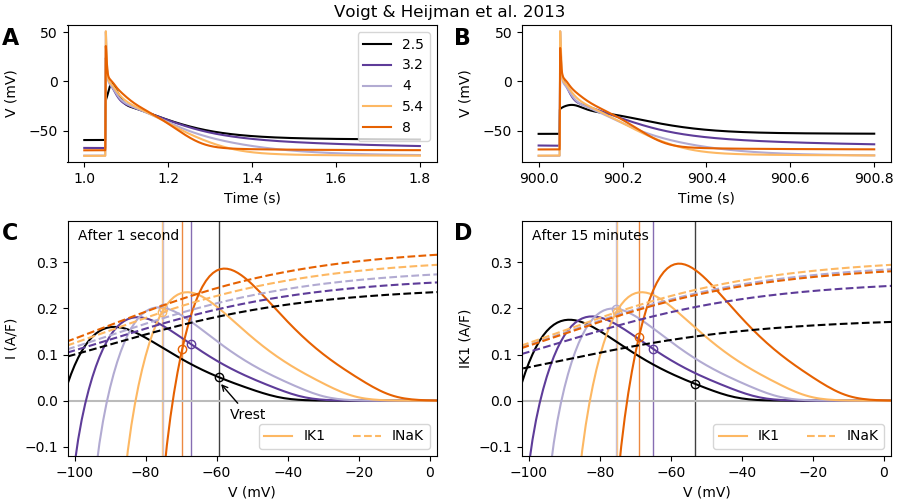
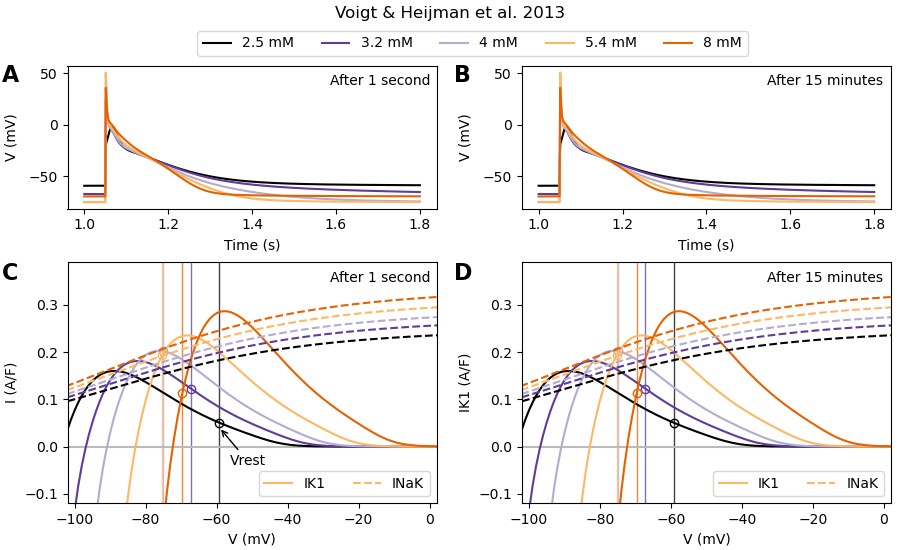
Tweaks to figure 4

diff --git a/f4.py b/f4.py
@@ -128,9 +128,9 @@ if debug:
 #
 # Create figure
 #
-fig = plt.figure(figsize=(9, 5))  # Two-column size
-fig.subplots_adjust(0.075, 0.088, 0.99, 0.95)
-grid = matplotlib.gridspec.GridSpec(5, 4, wspace=0.60, hspace=1.5)
+fig = plt.figure(figsize=(9, 5.5))  # Two-column size
+fig.subplots_adjust(0.075, 0.085, 0.99, 0.88)
+grid = matplotlib.gridspec.GridSpec(5, 4, wspace=0.60, hspace=1.2)
 
 # Add model name
 name_font = {
@@ -142,10 +142,10 @@ fig.text(0.5, 0.975, shared.fancy_name(model), name_font)
 
 # Add panel letters
 letter_font = {'weight': 'bold', 'fontsize': 16}
-fig.text(0.002, 0.91, 'A', letter_font)
-fig.text(0.505, 0.91, 'B', letter_font)
-fig.text(0.002, 0.52, 'C', letter_font)
-fig.text(0.505, 0.52, 'D', letter_font)
+fig.text(0.002, 0.85, 'A', letter_font)
+fig.text(0.505, 0.85, 'B', letter_font)
+fig.text(0.002, 0.49, 'C', letter_font)
+fig.text(0.505, 0.49, 'D', letter_font)
 #fig.text(0.255, 0.91, 'B', letter_font)
 #fig.text(0.505, 0.91, 'C', letter_font)
 #fig.text(0.755, 0.91, 'D', letter_font)
@@ -157,24 +157,9 @@ ax = fig.add_subplot(grid[0:2, 0:2])
 ax.set_xlabel('Time (s)')
 ax.set_ylabel('V (mV)')
 for d, k, c in zip(d1s, ks, cs):
-    ax.plot(d.time() * 1e-3, d[v], label=f'{k}', color=c)
-ax.legend(loc='upper right')
-
-'''
-# B: Ki over time
-ax = fig.add_subplot(grid[0:2, 1])
-ax.set_xlabel('Time (s)')
-ax.set_ylabel('[K]i')
-for d, k, c in zip(d3s, ks, cs):
-    ax.plot(d.time() * 1e-3, d[ki], color=c)
-
-# C: Nai over time
-ax = fig.add_subplot(grid[0:2, 2])
-ax.set_xlabel('Time (s)')
-ax.set_ylabel('[Na]i')
-for d, k, c in zip(d3s, ks, cs):
-    ax.plot(d.time() * 1e-3, d[nai], color=c)
-'''
+    ax.plot(d.time() * 1e-3, d[v], label=f'{k} mM', color=c)
+ax.legend(loc=(0.352, 1.07), ncol=len(ks))
+ax.text(0.710, 0.87, 'After 1 second', transform=ax.transAxes)
 
 # D: Late change in AP waveform
 ax = fig.add_subplot(grid[0:2, 2:4])
@@ -182,6 +167,7 @@ ax.set_xlabel('Time (s)')
 ax.set_ylabel('V (mV)')
 for d, k, c in zip(d2s, ks, cs):
     ax.plot(d.time() * 1e-3, d[v], color=c)
+ax.text(0.665, 0.87, 'After 15 minutes', transform=ax.transAxes)
 
 # E: IK1 and INaK IV early
 ax = fig.add_subplot(grid[2:, :2])
@@ -190,6 +176,7 @@ ax.set_ylabel('I (A/F)')
 ax.set_xlim(*vlim)
 ax.set_ylim(-0.12, 0.39)
 ax.axhline(0, color='#bbbbbb')
+
 
 for k, xy, qr, c in zip(ks, ik1_v1, vrs1, cs):
     label = 'IK1' if k == 5.4 else None
@@ -205,7 +192,7 @@ ax.annotate(
 for k, xy, c in zip(ks, inak_v1, cs):
     label = 'INaK' if k == 5.4 else None
     ax.plot(xy[0], xy[1], color=c, ls='--', label=label)
-ax.text(0.028, 0.92, 'After 1 second', transform=ax.transAxes)
+ax.text(0.710, 0.92, 'After 1 second', transform=ax.transAxes)
 ax.legend(ncol=2, loc='lower right')
 #ax.grid(True)
 
@@ -221,7 +208,7 @@ for k, xy, qr, c in zip(ks, ik1_v2, vrs2, cs):
     ax.plot(xy[0], xy[1], color=c, label=label)
     ax.plot(qr[0], qr[1], 'o', color=c, fillstyle='none')
     ax.axvline(qr[0], color=c, alpha=0.75, lw=1, zorder=0)
-ax.text(0.028, 0.92, 'After 15 minutes', transform=ax.transAxes)
+ax.text(0.665, 0.92, 'After 15 minutes', transform=ax.transAxes)
 for k, xy, c in zip(ks, inak_v2, cs):
     label = 'INaK' if k == 5.4 else None
     ax.plot(xy[0], xy[1], color=c, ls='--', label=label)
